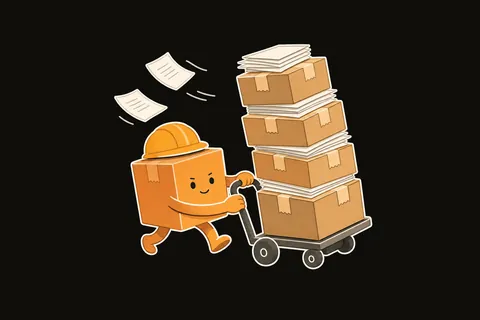
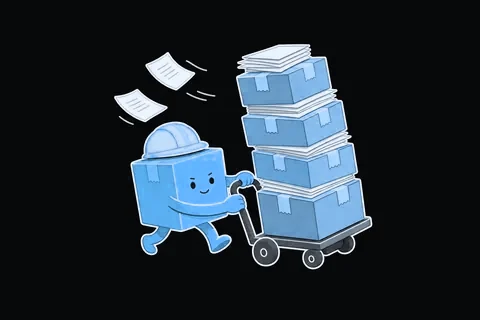
wip: crate blue

Changed region(s): [[0.25, 0.125, 0.7812, 0.8125], [0.3125, 0.1875, 0.4062, 0.2812]]

diff --git a/test/brand-sync.test.ts b/test/brand-sync.test.ts
@@ -1,8 +1,10 @@
-import { readFileSync } from 'node:fs';
+import { readdirSync, readFileSync } from 'node:fs';
 import { join } from 'node:path';
 import { describe, expect, it } from 'vitest';
 import { CENTER, DOT_COLORS, ORBIT, orbitDots, SHEET, TILE, tilePath } from '../src/welcome/logo.js';
 import { PALETTE, type Rgb } from '../src/welcome/term.js';
+import { crate as crateTerminal } from '../src/welcome/themes/crate.js';
+import { palette } from '../src/welcome/themes/index.js';
 import { EMAIL_COLORS } from '../functions/feedback/src/lib/palette.js';
 // @ts-expect-error The site's scripts are plain JavaScript with no declarations.
 import { plainTokens } from '../site/scripts/plain-tokens.mjs';
@@ -13,7 +15,8 @@ import { plainTokens } from '../site/scripts/plain-tokens.mjs';
  * can't share code (the site and the UI are their own packages), so this test
  * reads their sources and fails when any of them drifts. Change one, change the
  * others. The terminal's colours are each theme's own, held to ui/themes/ by
- * test/theme-sync.test.ts; its default theme is Crate (#467), not the site's.
+ * test/theme-sync.test.ts. Crate, the default theme in the terminal and in
+ * Toil UI (#467), wears the site's blue too (#472), and is held to it below.
  */
 
 const root = join(import.meta.dirname, '..');
@@ -32,6 +35,7 @@ function token(name: string): Rgb {
   const n = parseInt(hex[1]!, 16);
   return [(n >> 16) & 255, (n >> 8) & 255, n & 255];
 }
+const hexToRgb = (value: string): Rgb => [1, 3, 5].map((i) => parseInt(value.slice(i, i + 2), 16)) as Rgb;
 const hex = (rgb: Rgb) => `#${rgb.map((n) => n.toString(16).padStart(2, '0')).join('')}`;
 
 /** The page's placement, as every copy of the badge writes it. */
@@ -165,7 +169,7 @@ describe("Toil UI's badges", () => {
  * The site's colours are Toil UI Plain's, dark scheme (#442).
  * site/scripts/plain-tokens.mjs writes them from Plain's theme.json, and the
  * site's build runs it; this fails when the committed file has drifted from
- * what it would write. Crate keeps its own warm palette.
+ * what it would write.
  */
 describe("the site's tokens are Plain's", () => {
   it('site/src/styles/plain.generated.css is what plain-tokens.mjs writes from ui/themes/plain/theme.json', () => {
@@ -176,6 +180,66 @@ describe("the site's tokens are Plain's", () => {
     const own = read('site/src/styles/global.css');
     expect(own).toContain("@import './plain.generated.css';");
     for (const [, name] of generated.matchAll(/(--[a-z-]+):/g)) expect(own, name).not.toMatch(new RegExp(`${name}:`));
+  });
+});
+
+/**
+ * Crate, the default theme, is the site's look (#472): every colour in its
+ * theme.json is one of the site's tokens, so a change to Plain's blue (and so
+ * the site's) fails here until Crate follows. Its second colour, `link`, is the
+ * site's highlight: Crate's gradients, sticker and chart run accent to link, as
+ * the site's run accent to highlight. The banner is the raised surface with the
+ * highlight on it.
+ */
+describe("Crate wears the site's blue", () => {
+  const crate = JSON.parse(read('ui/themes/crate/theme.json')) as { schemes: Record<string, Record<string, string>> };
+  /** Each of Crate's keys, and the site token it takes. */
+  const SITE_TOKEN: Record<string, string> = {
+    bg: 'bg', surface: 'surface', raised: 'surface-raised', ink: 'ink', muted: 'muted', line: 'line',
+    accent: 'accent', accentInk: 'accent-ink', link: 'highlight', focus: 'focus',
+    ok: 'ok', warn: 'warn', danger: 'danger', bannerBg: 'surface-raised', bannerInk: 'highlight',
+  };
+
+  it('has only the dark scheme, as the site does', () => {
+    expect(Object.keys(crate.schemes)).toEqual(['dark']);
+  });
+
+  it.each(Object.entries(SITE_TOKEN))("takes its %s from the site's %s token", (key, name) => {
+    expect(crate.schemes.dark![key]?.toLowerCase(), `ui/themes/crate/theme.json dark.${key} vs the site's --${name}`).toBe(hex(token(name)));
+  });
+
+  it('sets no colour the map above leaves out', () => {
+    expect(Object.keys(crate.schemes.dark!).sort()).toEqual(Object.keys(SITE_TOKEN).sort());
+  });
+
+  // On a dark terminal the default menu is the site's palette, the same one PALETTE (Plain's dark, the site's) is.
+  it("gives the welcome menu the site's palette on a dark terminal", () => {
+    expect(palette(crateTerminal, 'dark')).toEqual(PALETTE);
+  });
+
+  it("colours its theme.css only with the theme's tokens", () => {
+    const css = read('ui/themes/crate/theme.css').replace(/\/\*[\s\S]*?\*\//g, '');
+    expect(css).not.toMatch(/#[0-9a-f]{3,8}\b|rgba?\(|hsla?\(/i);
+  });
+
+  it("draws its dust in its ink and its highlight", () => {
+    const rgb = (key: string) => hexToRgb(crate.schemes.dark![key]!).join(', ');
+    expect(read('ui/src/ambient/presets.ts')).toContain(`sprites: (make) => [make(8, glow('${rgb('ink')}', 0.18)), make(8, glow('${rgb('link')}', 0.18))]`);
+  });
+
+  // The art was recoloured from the warm originals (#472): a colour in Crate's SVGs is a
+  // grey, a blue in the site's band, or one of the site's status colours.
+  const svgs = ['mark.svg', ...readdirSync(join(root, 'ui/themes/crate/assets/moments')).filter((f) => f.endsWith('.svg')).map((f) => `moments/${f}`)];
+  it.each(svgs)('draws %s in the blue palette', (file) => {
+    const status = ['ok', 'warn', 'danger'].map((name) => hex(token(name)));
+    for (const [colour] of read(`ui/themes/crate/assets/${file}`).toLowerCase().matchAll(/#[0-9a-f]{6}\b/g)) {
+      const [r, g, b] = hexToRgb(colour).map((n) => n / 255) as [number, number, number];
+      const hi = Math.max(r, g, b);
+      const chroma = hi - Math.min(r, g, b);
+      const hue = chroma === 0 ? 0 : hi === b ? 60 * ((r - g) / chroma + 4) : hi === g ? 60 * ((b - r) / chroma + 2) : (60 * ((g - b) / chroma) + 360) % 360;
+      const grey = chroma <= 0.08;
+      expect(grey || (hue >= 190 && hue <= 230) || status.includes(colour), `${colour} in ${file}`).toBe(true);
+    }
   });
 });
 

diff --git a/ui/themes/crate/theme.css b/ui/themes/crate/theme.css
@@ -1,15 +1,16 @@
-/* Crate: toil's warm finish, as the site wore it until it moved to Plain's
-   blue (#442). Tokens come from theme.json; this file adds the site's fonts,
-   its drafting grid and the flame glow of its old hero, its accent gradient and
-   the crate's head beside the name. The same layout and click targets as
-   Plain: only the look changes.
+/* Crate: the toil site's look, in the site's blue (#472). Tokens come from
+   theme.json, which test/brand-sync.test.ts holds to the site's own; this file
+   adds the site's fonts, its drafting grid and an accent glow, the accent-to-
+   highlight gradient and the crate's badge beside the name. Every colour here
+   is a token mixed with transparent, so nothing drifts from the palette. The
+   same layout and click targets as Plain: only the look changes.
 
-   It looks like that site, not a warehouse (#397): the warm near-black, the
-   grid and the glow behind the page, flat panels on the site's surfaces, and
-   the warehouse kept to the words, the crate's art and the dust. Text that
-   sits straight on the page keeps 4.5:1 at the brightest point behind it,
-   worked out from the colours: at the glow's peak, under a grid line, muted
-   text is 5.9:1 and danger 4.8:1 (docs/decisions/397-crate-like-site.md). */
+   It looks like that site, not a warehouse (#397): the near-black, the grid
+   and the glow behind the page, flat panels on the site's surfaces, and the
+   warehouse kept to the words, the crate's art and the dust. Text that sits
+   straight on the page keeps 4.5:1 at the brightest point behind it, worked
+   out from the colours: at the glow's peak, under a grid line, muted text is
+   5.8:1 and danger 5.6:1 (docs/decisions/472-crate-blue.md). */
 
 @import '@fontsource/ibm-plex-sans/400.css';
 @import '@fontsource/ibm-plex-sans/600.css';
@@ -20,9 +21,9 @@
   background: var(--bg);
 }
 
-/* The hero's glows, held still behind every view: flame up in the corner, a
-   little amber down at the foot. The dust is brightest where the flame is
-   (src/ambient/presets.ts, flame(), measures the same gradient). */
+/* The glows, held still behind every view: the accent up in the corner, a
+   little of the highlight down at the foot. The dust is brightest where the
+   accent's glow is (src/ambient/presets.ts, glowAt(), measures the same gradient). */
 [data-theme="crate"] body::before {
   content: "";
   position: fixed;
@@ -30,8 +31,8 @@
   z-index: -2;
   pointer-events: none;
   background:
-    radial-gradient(circle at 88% 0%, rgba(255, 106, 61, 0.14), transparent 60vmax),
-    radial-gradient(circle at 0% 100%, rgba(255, 184, 77, 0.07), transparent 45vmax);
+    radial-gradient(circle at 88% 0%, color-mix(in srgb, var(--accent) 14%, transparent), transparent 60vmax),
+    radial-gradient(circle at 0% 100%, color-mix(in srgb, var(--link) 7%, transparent), transparent 45vmax);
 }
 
 /* The drafting grid, drifting one cell every two minutes as on the site. It
@@ -43,8 +44,8 @@
   z-index: -2;
   pointer-events: none;
   background-image:
-    linear-gradient(rgba(246, 241, 233, 0.045) 1px, transparent 1px),
-    linear-gradient(90deg, rgba(246, 241, 233, 0.045) 1px, transparent 1px);
+    linear-gradient(color-mix(in srgb, var(--ink) 4.5%, transparent) 1px, transparent 1px),
+    linear-gradient(90deg, color-mix(in srgb, var(--ink) 4.5%, transparent) 1px, transparent 1px);
   background-size: 24px 24px;
 }
 
@@ -71,7 +72,7 @@
   letter-spacing: -0.005em;
 }
 
-/* The site's flame-to-amber on the word, and an amber sticker beside it. */
+/* The site's accent-to-highlight gradient on the word, and a highlight sticker beside it. */
 [data-theme="crate"] .brand .wordmark {
   padding-block: 0.08em;
   background: linear-gradient(100deg, var(--accent) 10%, var(--link) 90%);
@@ -188,7 +189,7 @@
 }
 
 /* Moments (#419): the crate's art sits on the near-black like the empty states' does, and
-   the flame glow warms the splash and the moment cards from the same corner as the page. */
+   the accent's glow lights the splash and the moment cards from the same corner as the page. */
 [data-theme="crate"] .loader__art,
 [data-theme="crate"] .splash__art {
   mix-blend-mode: lighten;
@@ -196,7 +197,7 @@
 
 [data-theme="crate"] .splash {
   background:
-    radial-gradient(circle at 88% 0%, rgba(255, 106, 61, 0.16), transparent 60vmax),
+    radial-gradient(circle at 88% 0%, color-mix(in srgb, var(--accent) 16%, transparent), transparent 60vmax),
     var(--bg);
 }
 

diff --git a/ui/src/ambient/presets.ts b/ui/src/ambient/presets.ts
@@ -4,7 +4,7 @@
  * canvas sits behind the page, so a particle passes behind text rather than
  * over it and never over a panel. Colours are the themes' own.
  *
- * - Crate: dust motes turning in the flame glow at the top of the page,
+ * - Crate: dust motes turning in the accent's glow at the top of the page,
  *   brighter inside the glow that theme.css draws in the same place.
  * - Harvest: pixel leaves drifting down and pollen floating up.
  * - Starship: a few stars that twinkle over the drifting starfield, and now
@@ -24,12 +24,12 @@ const TAU = Math.PI * 2;
 const between = (rand: () => number, lo: number, hi: number) => lo + rand() * (hi - lo);
 
 /**
- * How bright Crate's flame glow is at a point, 0 to 1. theme.css paints it
- * as `radial-gradient(circle at 88% 0%, <flame> 0, transparent 60vmax)` on a
+ * How bright Crate's accent glow is at a point, 0 to 1. theme.css paints it
+ * as `radial-gradient(circle at 88% 0%, <accent> 0, transparent 60vmax)` on a
  * layer the size of the window, so this is the same linear fall-off from the
  * same centre over the same radius.
  */
-export function flame(x: number, y: number, w: number, h: number): number {
+export function glowAt(x: number, y: number, w: number, h: number): number {
   const d = Math.hypot(x - 0.88 * w, y) / (0.6 * Math.max(w, h));
   return Math.max(0, 1 - d);
 }
@@ -42,7 +42,7 @@ export const crate: Preset = {
     for (let tries = 0; tries < 6; tries++) {
       p.x = rand() * w;
       p.y = rand() * h;
-      if (rand() < 0.25 || flame(p.x, p.y, w, h) > 0.35) break;
+      if (rand() < 0.25 || glowAt(p.x, p.y, w, h) > 0.35) break;
     }
     p.vx = between(rand, -5, 5);
     p.vy = between(rand, -4, 2);
@@ -58,9 +58,9 @@ export const crate: Preset = {
     return p.age < p.life && p.x > -10 && p.x < w + 10 && p.y > -10 && p.y < h + 10;
   },
   alpha(p, { w, h }) {
-    return lifeFade(p) * (0.12 + 0.43 * flame(p.x, p.y, w, h));
+    return lifeFade(p) * (0.12 + 0.43 * glowAt(p.x, p.y, w, h));
   },
-  sprites: (make) => [make(8, glow('246, 241, 233', 0.18)), make(8, glow('255, 184, 77', 0.18))],
+  sprites: (make) => [make(8, glow('232, 234, 237', 0.18)), make(8, glow('194, 224, 255', 0.18))],
   draw: (ctx, p, s) => stamp(ctx, s[p.kind], p),
 };
 

diff --git a/ui/test/motion.test.tsx b/ui/test/motion.test.tsx
@@ -6,7 +6,7 @@ import { afterEach, beforeEach, describe, expect, it, vi } from 'vitest';
 import { App } from '../src/App.tsx';
 import { Ambient } from '../src/ambient/Ambient.tsx';
 import { blank, fill, particleCount, stepAll, type Preset, type Viewport } from '../src/ambient/engine.ts';
-import { PRESETS, flame } from '../src/ambient/presets.ts';
+import { PRESETS, glowAt } from '../src/ambient/presets.ts';
 import { scriptedAgent } from '../src/fixtures/agent.ts';
 import { fixtureConfig } from '../src/fixtures/config.ts';
 import { FIXTURE_NOW, fixtureExecute } from '../src/fixtures/execute.ts';
@@ -101,13 +101,13 @@ describe('the particle presets', () => {
     }
   });
 
-  it("puts Crate's flame glow where theme.css draws it: brightest at 88% across the top, gone 60vmax away", () => {
+  it("puts Crate's accent glow where theme.css draws it: brightest at 88% across the top, gone 60vmax away", () => {
     const [w, h] = [1440, 900];
     const css = readFileSync(join(import.meta.dirname, '..', 'themes', 'crate', 'theme.css'), 'utf8');
-    expect(css).toContain('radial-gradient(circle at 88% 0%, rgba(255, 106, 61, 0.14), transparent 60vmax)');
-    expect(flame(0.88 * w, 0, w, h)).toBeCloseTo(1, 5);
-    expect(flame(0.88 * w, 0.3 * w, w, h)).toBeCloseTo(0.5, 5);
-    expect(flame(0, h, w, h)).toBe(0);
+    expect(css).toContain('radial-gradient(circle at 88% 0%, color-mix(in srgb, var(--accent) 14%, transparent), transparent 60vmax)');
+    expect(glowAt(0.88 * w, 0, w, h)).toBeCloseTo(1, 5);
+    expect(glowAt(0.88 * w, 0.3 * w, w, h)).toBeCloseTo(0.5, 5);
+    expect(glowAt(0, h, w, h)).toBe(0);
   });
 
   it("drifts Realm's ash down the page and its embers up it, in every width", () => {

diff --git a/src/welcome/themes/crate.ts b/src/welcome/themes/crate.ts
@@ -1,18 +1,25 @@
 import type { TerminalTheme } from './types.js';
 
-/** Crate's terminal version (ui/themes/crate/theme.json). Signed for in triplicate; the third copy is filed under 'probably fine'. */
+/**
+ * Crate's terminal version (ui/themes/crate/theme.json), in the site's blue
+ * (#472): its link is the site's highlight, and its faint is the site's faint
+ * token, so on a dark terminal the default menu wears the site's palette.
+ * test/brand-sync.test.ts holds both to the site. Signed for in triplicate;
+ * the third copy is filed under 'probably fine'.
+ */
 export const crate: TerminalTheme = {
   name: 'crate',
   label: 'Crate',
   schemes: {
     dark: {
-      bg: '#16130f',
-      ink: '#f6f1e9',
-      muted: '#b4a998',
-      accent: '#ff6a3d',
-      link: '#ffb84d',
-      ok: '#ffb84d',
-      danger: '#ff6a3d',
+      bg: '#0f1115',
+      ink: '#e8eaed',
+      muted: '#a7afba',
+      accent: '#8cc4ff',
+      link: '#c2e0ff',
+      ok: '#6fd394',
+      danger: '#ff8a80',
+      faint: '#868f9b',
     },
   },
   terms: {},

diff --git a/ui/src/skins/crate.tsx b/ui/src/skins/crate.tsx
@@ -1,5 +1,5 @@
 /**
- * Crate's skins: the crate in its amber-striped hard hat stands in for an empty
+ * Crate's skins: the crate in its hard hat stands in for an empty
  * state, as it does on the site's 404, and wheels a hand truck of paperwork
  * while a view loads (#267). It is always competent; the joke is on the
  * paperwork, never on the person looking at an empty list.

diff --git a/.claude/skills/site/SKILL.md b/.claude/skills/site/SKILL.md
@@ -109,18 +109,20 @@ from `main`).
     (`src/welcome/themes/`, #427), whose colours come from its `theme.json` and are
     held there by `test/theme-sync.test.ts`. Crate is the default in the terminal
     and in Toil UI alike (#467, one constant in `src/theme/default.ts`), and
-    `toil theme set` picks another; Plain is the site's blue. So the terminal's
-    default colours are not the site's, and nothing requires them to be. On a light
+    `toil theme set` picks another. Crate wears the site's blue (#472), so on a
+    dark terminal the default menu is the site's palette, as Plain's is. On a light
     terminal the page is white, which is Plain's light badge, and every theme's
     colours meet 4.5:1 on either background. Each theme keeps the badge and changes
     only what surrounds it (the orbit for Plain and Crate, crops, warp, embers,
     rain, steam or fairies), never the mark itself. **The site, the terminal and
     Toil UI are one brand in the mark and the wordmark: a change to the badge's
-    geometry changes all three in the same PR.** The palette is shared only
-    between the site, the feedback emails and Toil UI Plain: a change to Plain's
-    colours changes the site's tokens and the emails' copy in the same PR.
+    geometry changes all three in the same PR.** The palette is shared
+    between the site, the feedback emails, Toil UI Plain and Crate: a change to
+    Plain's colours changes the site's tokens, the emails' copy and Crate's
+    `theme.json` (and its terminal version) in the same PR.
     `test/brand-sync.test.ts` fails when the site's tokens or the emails' colours
-    differ from Plain's `theme.json`, or when the terminal's tile, page placement or
+    differ from Plain's `theme.json`, when a colour in Crate's `theme.json` isn't
+    the site's token for its role, when Crate's art strays from the blue palette, or when the terminal's tile, page placement or
     orbit, or any static copy of the badge, differs from the site's. It can't see
     the motion, so a change to it is mirrored by hand.
   - *Toil UI wears the badge in every theme.* A theme that brings none (one from
@@ -130,7 +132,7 @@ from `main`).
     `mark-dark.svg`); the dark one is the site's badge and the standard one, line
     for line. Each built-in game theme
     has its own skin of the same silhouette in `ui/themes/<theme>/assets/mark.svg`: Crate
-    kraft cardboard with a hazard-striped tape and a stencilled prompt, Harvest a
+    blue-grey cardboard with a hazard-striped tape in the highlight and a stencilled prompt, Harvest a
     16-pixel wooden sign, Starship a riveted hull plate with a glowing console, Realm
     an illuminated tile with a gilt edge, Frontier a riveted brass boiler plate
     with a copper rule, Overworld a mossy dungeon block with a torch-gold rim. It sits beside the name at 32px (twice

diff --git a/ui/docs/themes.md b/ui/docs/themes.md
@@ -14,7 +14,7 @@ Each one is on [the Toil UI page](https://imagile-dev.github.io/toil/ui/), the r
 | Theme | Looks like | Wording and voice | Accessibility bar |
 |---|---|---|---|
 | Plain | Light and quiet, with a dark variant: Fredoka on headings and figures, IBM Plex Sans to read | None: always the standard text | WCAG 2.2 AA, strict |
-| Crate | The warm workshop: the warm near-black, the drafting grid and the flame glow, the flame-to-amber accent, the crate in its hard hat | A terse warehouse dockworker | WCAG 2.2 AA, strict |
+| Crate | The toil site's look, in its blue: the near-black, the drafting grid and the blue glow, the accent-to-highlight gradient, the crate in its hard hat | A terse warehouse dockworker | WCAG 2.2 AA, strict |
 | Harvest | A 16-bit farm: a pixel font, wooden sign panels, a sky that runs from dawn to dusk across the sprint | A patient farmhand | Decorative |
 | Starship | A bridge console: HUD frames, scanlines, a slow starfield, holo panels | A ship's log | Decorative |
 | Realm | A grimdark house ledger kept as a tabletop campaign: soot and iron around aged vellum, leather-bound panels with wax-sealed headings, a dungeon map at the foot of every page, a d20 that rolls while a view loads, an item's fields as a character sheet, the dependency graph as an engraved war-table map | A dungeon master | Decorative |
@@ -132,7 +132,7 @@ The (i) in the chat's strip says which voice the answers are in, which agent is 
 
 ## Motion and particles
 
-The seven game themes move a little: dust drifting in the flame glow and the site's slow drafting grid in Crate, leaves and pollen over Harvest's fields, a starfield in Starship, drifting ash, rising embers, a faint candle flicker and a d20 that tumbles while a view loads in Realm, rain on a slant, a blinking cursor and a brief glitch as a page opens in Sprawl, desert dust on the wind with steam rising from the foot of the page in Frontier, and fairies wandering as motes of light in Overworld, where a chest hops open as a card reaches Done and a key is lifted as one gets under way. Plain doesn't move. No theme plays sound.
+The seven game themes move a little: dust drifting in the blue glow and the site's slow drafting grid in Crate, leaves and pollen over Harvest's fields, a starfield in Starship, drifting ash, rising embers, a faint candle flicker and a d20 that tumbles while a view loads in Realm, rain on a slant, a blinking cursor and a brief glitch as a page opens in Sprawl, desert dust on the wind with steam rising from the foot of the page in Frontier, and fairies wandering as motes of light in Overworld, where a chest hops open as a card reaches Done and a key is lifted as one gets under way. Plain doesn't move. No theme plays sound.
 
 Three settings decide what moves, in this order:
 
